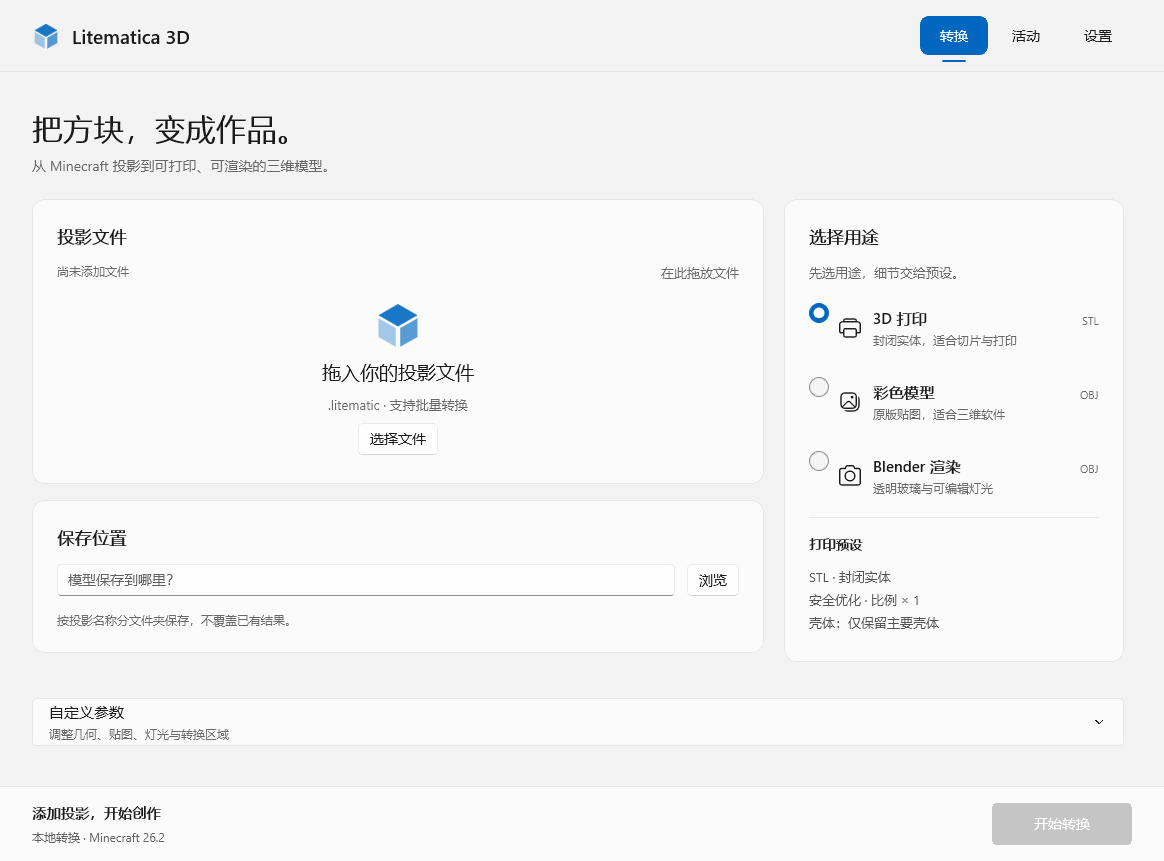
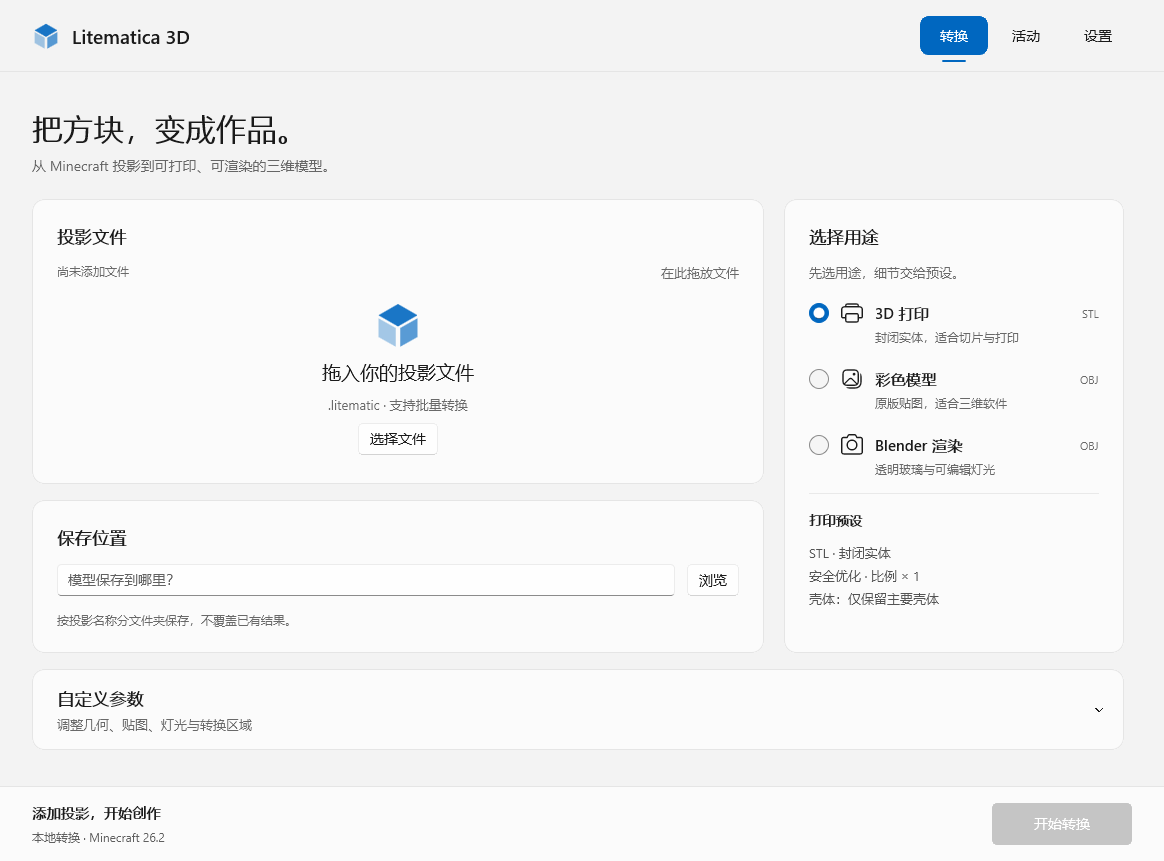
fix: align workspace cards and harmonize settings layout

diff --git a/frontend/Litmetica3D.WinUI/MainWindow.Layout.cs b/frontend/Litmetica3D.WinUI/MainWindow.Layout.cs
@@ -42,7 +42,7 @@ public sealed partial class MainWindow
         var panel = Stack(heading);
         if (description.Length > 0) panel.Children.Add(Muted(description));
         foreach (var child in children) panel.Children.Add(child);
-        return new ContentControl { HorizontalContentAlignment = HorizontalAlignment.Stretch,
+        return new ContentControl { HorizontalContentAlignment = HorizontalAlignment.Stretch, VerticalContentAlignment = VerticalAlignment.Stretch,
             Content = new Border { Style = (Style)Root.Resources["CardStyle"], Child = panel } };
     }
     private static ScrollViewer Scroll(UIElement content) => new()
@@ -97,11 +97,25 @@ public sealed partial class MainWindow
         };
         return grid;
     }
-    private Expander Group(string title, string detail, UIElement body, bool expanded = false) => new()
+    private Expander Group(string title, string detail, UIElement body, bool expanded = false)
     {
-        Header = new StackPanel { Spacing = 4, VerticalAlignment = VerticalAlignment.Center, Children = { Text(title, 15), Muted(detail, 12) } }, Content = body, IsExpanded = expanded,
-        HorizontalAlignment = HorizontalAlignment.Stretch, HorizontalContentAlignment = HorizontalAlignment.Stretch,
-    };
+        var heading = Text(title, 17);
+        heading.FontWeight = Microsoft.UI.Text.FontWeights.SemiBold;
+        return new Expander
+        {
+            // The native header has a 16px left inset and no vertical padding.
+            // Add space for two lines while preserving its keyboard and theme behavior.
+            Header = new StackPanel
+            {
+                Spacing = 6, Margin = new Thickness(8, 16, 0, 16),
+                VerticalAlignment = VerticalAlignment.Center,
+                Children = { heading, Muted(detail, 13) },
+            },
+            Content = body, IsExpanded = expanded, MinHeight = 80,
+            CornerRadius = new CornerRadius(12), Padding = new Thickness(24),
+            HorizontalAlignment = HorizontalAlignment.Stretch, HorizontalContentAlignment = HorizontalAlignment.Stretch,
+        };
+    }
 
     private Control BuildProject(UIElement advanced)
     {
@@ -139,7 +153,10 @@ public sealed partial class MainWindow
         output.PlaceholderText = "模型保存到哪里？";
         var outputCard = Card("保存位置", "", Pair(output, Button("浏览", ChooseOutput)),
             Muted("按投影名称分文件夹保存，不覆盖已有结果。", 12));
-        var left = Stack(queue, outputCard);
+        var left = new Grid { RowSpacing = 16 };
+        left.RowDefinitions.Add(new() { Height = new GridLength(1, GridUnitType.Star) });
+        left.RowDefinitions.Add(new() { Height = GridLength.Auto });
+        left.Children.Add(queue); left.Children.Add(outputCard); Grid.SetRow(outputCard, 1);
         var modes = Stack(
             Preset("print", "\uE749", "3D 打印", "封闭实体，适合切片与打印", "STL"),
             Preset("visual", "\uE8B9", "彩色模型", "原版贴图，适合三维软件", "OBJ"),
@@ -149,8 +166,7 @@ public sealed partial class MainWindow
         summary.FontSize = 13;
         summary.LineHeight = 23;
         var right = Card("选择用途", "先选用途，细节交给预设。", modes, Divider(), presetLabel, summary);
-        right.VerticalAlignment = VerticalAlignment.Top;
-        workspace = new Grid { ColumnSpacing = 20, RowSpacing = 20 };
+        workspace = new Grid { ColumnSpacing = 20 };
         workspace.ColumnDefinitions.Add(new() { Width = new GridLength(1, GridUnitType.Star) });
         workspace.ColumnDefinitions.Add(new() { Width = new GridLength(340) });
         workspace.RowDefinitions.Add(new() { Height = GridLength.Auto });
@@ -160,6 +176,7 @@ public sealed partial class MainWindow
         {
             var wide = e.NewSize.Width >= 820;
             workspace.ColumnDefinitions[1].Width = new GridLength(wide ? 340 : 0);
+            workspace.RowSpacing = wide ? 0 : 16;
             Grid.SetColumn(right, wide ? 1 : 0); Grid.SetRow(right, wide ? 0 : 1);
         };
         advancedOptions = Group("自定义参数", "调整几何、贴图、灯光与转换区域", advanced);
@@ -171,14 +188,17 @@ public sealed partial class MainWindow
     {
         var name = Text(title, 15); name.FontWeight = Microsoft.UI.Text.FontWeights.SemiBold;
         var badge = Muted(format, 11); badge.VerticalAlignment = VerticalAlignment.Center;
-        var copy = Stack(Pair(name, badge), Muted(subtitle, 12)); copy.Spacing = 4;
-        var content = new Grid { ColumnSpacing = 12, Margin = new Thickness(2, 5, 0, 5) };
+        // Match the native radio indicator's 32px first row.
+        var titleRow = Pair(name, badge); titleRow.MinHeight = 32;
+        name.VerticalAlignment = badge.VerticalAlignment = VerticalAlignment.Center;
+        var copy = Stack(titleRow, Muted(subtitle, 12)); copy.Spacing = 0;
+        var content = new Grid { ColumnSpacing = 12 };
         content.ColumnDefinitions.Add(new() { Width = GridLength.Auto });
         content.ColumnDefinitions.Add(new() { Width = new GridLength(1, GridUnitType.Star) });
-        var icon = Icon(glyph, 22); icon.VerticalAlignment = VerticalAlignment.Center;
+        var icon = Icon(glyph, 22); icon.VerticalAlignment = VerticalAlignment.Top; icon.Margin = new Thickness(0, 5, 0, 0);
         content.Children.Add(icon); content.Children.Add(copy); Grid.SetColumn(copy, 1);
         var button = new RadioButton { Content = content, GroupName = "ExportPreset", HorizontalContentAlignment = HorizontalAlignment.Stretch,
-            HorizontalAlignment = HorizontalAlignment.Stretch };
+            HorizontalAlignment = HorizontalAlignment.Stretch, VerticalContentAlignment = VerticalAlignment.Top, Padding = new Thickness(12, 0, 0, 0) };
         Microsoft.UI.Xaml.Automation.AutomationProperties.SetName(button, title);
         button.Checked += (_, _) => { if (!updating) ApplyPreset(key); };
         presetButtons[key] = button;
@@ -312,9 +332,10 @@ public sealed partial class MainWindow
         };
         return Scroll(Stack(PageHeading("偏好设置", "让工作台适合你的使用习惯。"),
             Card("外观", "", Pair(new StackPanel { Spacing = 4, Children = { Text("主题"), Muted("跟随 Windows，或选择固定外观。") } }, theme)),
-            Group("转换引擎", "使用内置虚拟环境，或指定 Python 解释器",
-                Stack(python, Muted("留空自动查找仓库中的 .venv。"), Button("保存设置", (_, _) =>
-                { SaveSettings(); ShowNotice("已保存", "应用设置已更新。", InfoBarSeverity.Success); }))),
+            Card("转换引擎", "默认自动选择 Python 环境，也可指定解释器。",
+                Pair(python, Button("保存设置", (_, _) =>
+                { SaveSettings(); ShowNotice("已保存", "应用设置已更新。", InfoBarSeverity.Success); })),
+                Muted("留空即可使用内置环境，无需额外配置。", 12)),
             Card("Litematica 3D", "v0.5.1 · WinUI 3", Muted("内置 Minecraft 26.2 模型与贴图，无需安装游戏。"),
                 Muted("作者：b站@ZZHaccount", 12))));
     }

diff --git a/tests/WinUI.LayoutSmoke.cs b/tests/WinUI.LayoutSmoke.cs
@@ -92,8 +92,11 @@ public sealed partial class MainWindow
             Check(resultCards.Children.Count == 1 && emptyResults.Visibility == Visibility.Collapsed, "Completed report renders a result card");
             NavigateTo(1);
             await Capture("06-activity");
+            AppWindow.Resize(new Windows.Graphics.SizeInt32(1180, 900));
             NavigateTo(2);
             await Capture("07-settings");
+            Root.RequestedTheme = ElementTheme.Dark;
+            await Capture("08-settings-dark");
             await File.WriteAllTextAsync(Path.Combine(folder, "checks.txt"), string.Join(Environment.NewLine, checksRun));
             Environment.Exit(0);
         }
